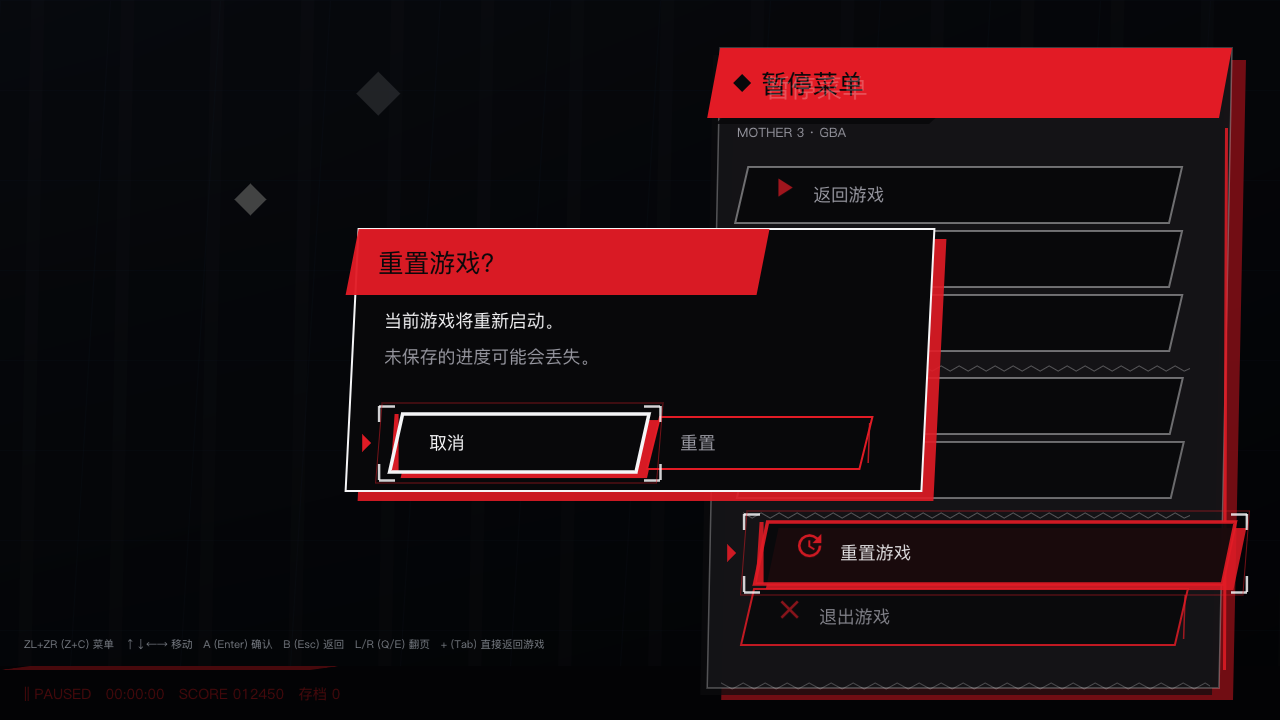
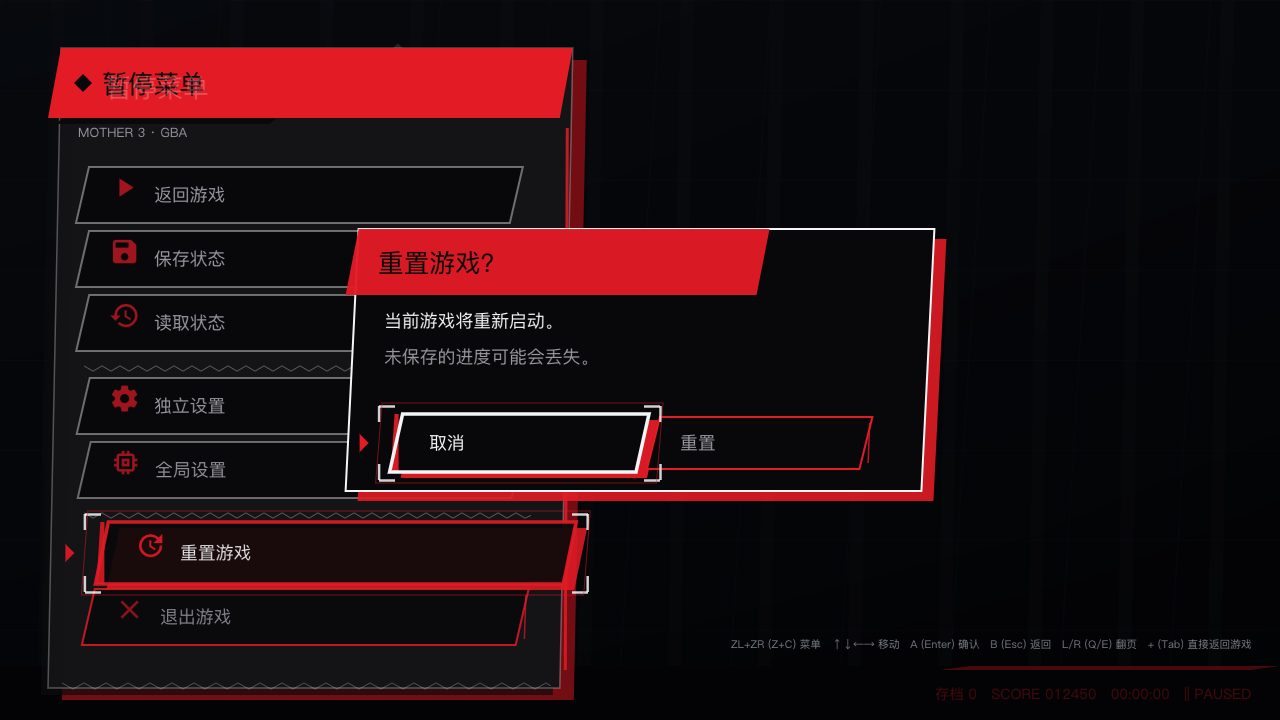
暂停菜单改为从左侧弹出，游戏画面留在右侧
- 面板锚点：panel_x = screen.min.x + menu_left_margin（原为贴右侧）
- 入场/退场方向：从屏幕左侧外滑入/滑出（原为右侧）
- 自适应宽度上限改为保证右侧留 52% 给游戏画面
- demo：游戏画面恢复满屏（真实模拟器也是如此，菜单只是叠在上面），
  玩家方块偏右放置避免被面板盖住；HUD / 按键提示 / 提示消息改为右对齐，
  否则菜单打开时会压在面板上
- 主题字段 menu_right_margin 改名 menu_left_margin

验证：1280x720 / 960x720(4:3) / 1600x720 三种画布下抓帧核对，
面板贴左、滑入动画方向正确、游戏画面与 HUD 在右侧可见、无裁剪；
四种运行方式退出码 0；mac 与 Switch 均编译通过；docs 预览图已刷新。

diff --git a/src/demo/pause/PauseDemo.cpp b/src/demo/pause/PauseDemo.cpp
@@ -47,6 +47,13 @@ void FormatStamp(char* buffer, std::size_t size, int save_index) {
     std::snprintf(buffer, size, "存档 #%d", save_index + 1);
 }
 
+// 游戏画面始终占满整屏（真实模拟器也是如此），菜单只是叠在上面；
+// 这里只把 HUD 条让出来。玩家方块放在偏右，保证菜单打开时仍然可见。
+gamemenu::Rect GameRegion() {
+    const ImVec2 display = ImGui::GetIO().DisplaySize;
+    return MakeRect(0.0f, 0.0f, display.x, display.y - kHudHeight);
+}
+
 } // namespace
 
 // ------------------------------------------------------------------ 场景 ----
@@ -82,20 +89,25 @@ void PauseScene::OnUpdate(UiContext& ui, float dt) {
         game_.time += dt;
         game_.play_seconds += dt;
         game_.ship_angle += dt * 1.4f;
-        // 小球在左侧 62% 区域内弹跳（右上是菜单的视觉区域）
-        const float limit_x = 1180.0f - 30.0f;
-        const float limit_y = 720.0f - kHudHeight - 30.0f;
+        // 小球只在右侧游戏区域内弹跳（左侧是菜单面板）
+        const gamemenu::Rect region = GameRegion();
+        const float limit_min_x = region.min.x + 36.0f;
+        const float limit_max_x = region.max.x - 36.0f;
+        const float limit_min_y = 36.0f;
+        const float limit_max_y = region.max.y - 30.0f;
         for (int i = 0; i < 3; ++i) {
             game_.balls[i].x += game_.ball_vel[i].x * dt;
             game_.balls[i].y += game_.ball_vel[i].y * dt;
-            if (game_.balls[i].x < 30.0f || game_.balls[i].x > limit_x) {
+            if (game_.balls[i].x < limit_min_x || game_.balls[i].x > limit_max_x) {
                 game_.ball_vel[i].x = -game_.ball_vel[i].x;
-                game_.balls[i].x = game_.balls[i].x < 30.0f ? 30.0f : limit_x;
+                game_.balls[i].x =
+                    game_.balls[i].x < limit_min_x ? limit_min_x : limit_max_x;
                 game_.score += 10;
             }
-            if (game_.balls[i].y < 30.0f || game_.balls[i].y > limit_y) {
+            if (game_.balls[i].y < limit_min_y || game_.balls[i].y > limit_max_y) {
                 game_.ball_vel[i].y = -game_.ball_vel[i].y;
-                game_.balls[i].y = game_.balls[i].y < 30.0f ? 30.0f : limit_y;
+                game_.balls[i].y =
+                    game_.balls[i].y < limit_min_y ? limit_min_y : limit_max_y;
                 game_.score += 10;
             }
         }
@@ -151,8 +163,9 @@ void PauseScene::DrawFakeGame(ImDrawList* draw_list, const Rect& screen) {
         draw_list->AddLine(ImVec2(0.0f, y), ImVec2(screen.max.x, y), IM_COL32(0x4F, 0xA3, 0xFF, 0x0E));
     }
 
-    // "玩家"：旋转的红色方框
-    const ImVec2 center(420.0f, 300.0f);
+    // "玩家"：旋转的红色方框（偏右，避免被左侧菜单面板盖住）
+    const gamemenu::Rect region = GameRegion();
+    const ImVec2 center(region.max.x * 0.62f, region.max.y * 0.42f);
     const float size = 46.0f;
     ImVec2 corners[4];
     for (int i = 0; i < 4; ++i) {
@@ -174,7 +187,7 @@ void PauseScene::DrawFakeGame(ImDrawList* draw_list, const Rect& screen) {
 void PauseScene::DrawHud(ImDrawList* draw_list, const Rect& screen) {
     const Rect bar = MakeRect(0.0f, screen.max.y - kHudHeight, screen.Width(), kHudHeight);
     draw_list->AddRectFilled(bar.min, bar.max, IM_COL32(0x0A, 0x0B, 0x0F, 0xF0));
-    AddSkewFilled(draw_list, MakeRect(0.0f, bar.min.y, 340.0f, 4.0f), 30.0f,
+    AddSkewFilled(draw_list, MakeRect(bar.max.x - 340.0f, bar.min.y, 340.0f, 4.0f), 30.0f,
                   IM_COL32(0xE2, 0x1B, 0x25, 0xFF));
 
     char play[16];
@@ -184,14 +197,15 @@ void PauseScene::DrawHud(ImDrawList* draw_list, const Rect& screen) {
 
     char line[128];
     const bool paused = menu_.Visible();
-    std::snprintf(line, sizeof(line), "%s   %s   %s   存档 %d",
-                  paused ? "|| PAUSED" : ">  RUNNING", play, score, save_count_);
+    std::snprintf(line, sizeof(line), "存档 %d   %s   %s   %s", save_count_, score, play,
+                  paused ? "|| PAUSED" : ">  RUNNING");
 
+    // 面板在左侧，HUD 右对齐避免被盖住
     const float size = 20.0f;
-    gamemenu::AddTextLeftVCentered(draw_list, ImVec2(24.0f, bar.Center().y),
-                                   paused ? IM_COL32(0xE2, 0x1B, 0x25, 0xFF)
-                                          : IM_COL32(0xF5, 0xF5, 0xF7, 0xE0),
-                                   size, line);
+    gamemenu::AddTextRight(draw_list, ImVec2(bar.max.x - 28.0f, bar.Center().y - size * 0.5f),
+                           paused ? IM_COL32(0xE2, 0x1B, 0x25, 0xFF)
+                                  : IM_COL32(0xF5, 0xF5, 0xF7, 0xE0),
+                           size, line);
 }
 
 void PauseScene::DrawHotkeyHints(ImDrawList* draw_list, const Rect& screen) {
@@ -199,21 +213,21 @@ void PauseScene::DrawHotkeyHints(ImDrawList* draw_list, const Rect& screen) {
     const char* hint =
         "ZL+ZR (Z+C) 菜单   ↑↓←→ 移动   A (Enter) 确认   B (Esc) 返回   L/R (Q/E) 翻页   "
         "+ (Tab) 直接返回游戏";
-    gamemenu::AddTextLeftVCentered(draw_list, ImVec2(24.0f, y), IM_COL32(0xB0, 0xB6, 0xC0, 0xB0), 15.0f,
-                                   hint);
+    const float right = screen.max.x - 28.0f;
+    gamemenu::AddTextRight(draw_list, ImVec2(right, y - 8.0f), IM_COL32(0xB0, 0xB6, 0xC0, 0xB0),
+                           15.0f, hint);
 
     if (toast_timer_ > 0.0f) {
         const float a = gamemenu::Clamp01(toast_timer_ / 0.7f);
-        gamemenu::AddTextLeftVCentered(draw_list, ImVec2(24.0f, y - 26.0f),
-                                       ColorWithAlpha(IM_COL32(0xE2, 0x1B, 0x25, 0xFF), a), 18.0f,
-                                       toast_);
+        gamemenu::AddTextRight(draw_list, ImVec2(right, y - 34.0f),
+                               ColorWithAlpha(IM_COL32(0xE2, 0x1B, 0x25, 0xFF), a), 18.0f, toast_);
     }
 
     if (loaded_slot_ >= 0) {
         char text[64];
         std::snprintf(text, sizeof(text), "已读取槽位 %d", loaded_slot_ + 1);
-        gamemenu::AddTextLeftVCentered(draw_list, ImVec2(24.0f, y - 48.0f),
-                                       IM_COL32(0xF5, 0xF5, 0xF7, 0xB0), 15.0f, text);
+        gamemenu::AddTextRight(draw_list, ImVec2(right, y - 56.0f),
+                               IM_COL32(0xF5, 0xF5, 0xF7, 0xB0), 15.0f, text);
     }
 }
 

diff --git a/src/gamemenu/GameMenuTheme.h b/src/gamemenu/GameMenuTheme.h
@@ -70,13 +70,13 @@ struct GameMenuTheme {
     float focus_tick_length = 16.0f;   // 焦点框四角 L 形长度
     float sweep_width = 62.0f;         // 扫描高光条宽度
 
-    // 720p 布局：菜单靠右，游戏画面保留在左侧（需求 §15）
+    // 720p 布局：菜单**靠左**弹出，游戏画面保留在右侧
     // 这些是 1280x720 下的基准值；实际画布不同比例时由 ResolveLayout 自适应。
-    float menu_right_margin = 48.0f;
+    float menu_left_margin = 48.0f;
     float menu_width = 520.0f;      // 基准宽（720p 下约 41% 屏宽）
     float menu_width_ratio = 0.41f;  // 画布更宽时按比例取宽
     float menu_min_width = 440.0f;   // 再窄也不小于这个
-    float menu_max_width = 640.0f;   // 再宽也不超过这个（免得远离游戏画面）
+    float menu_max_width = 640.0f;   // 再宽也不超过这个（免得盖住太多游戏画面）
     float menu_top = 48.0f;
     float menu_bottom_margin = 32.0f;
     float menu_max_height = 700.0f;  // 画布很高时面板不跟着无限拉长

diff --git a/src/gamemenu/GameMenuTheme.cpp b/src/gamemenu/GameMenuTheme.cpp
@@ -37,13 +37,14 @@ GameMenuLayout ResolveGameMenuLayout(const GameMenuTheme& theme, const Rect& scr
     if (width > theme.menu_max_width) {
         width = theme.menu_max_width;
     }
-    // 窄画布下别把游戏画面挤没：至少给左侧留 52%
+    // 窄画布下别把游戏画面挤没：右侧至少留 52% 给游戏画面
     const float width_limit = screen.Width() * 0.48f;
     if (width > width_limit) {
         width = width_limit;
     }
     layout.panel_width = width;
-    layout.panel_x = screen.max.x - theme.menu_right_margin - width;
+    // 面板贴左边弹出（游戏画面在右侧）
+    layout.panel_x = screen.min.x + theme.menu_left_margin;
 
     // 高度：可用高度封顶，避免超长画布下面板被拉成一条。
     const float available = screen.Height() - theme.menu_top - theme.menu_bottom_margin;

diff --git a/src/gamemenu/GameMenuView.cpp b/src/gamemenu/GameMenuView.cpp
@@ -240,11 +240,11 @@ void GameMenuHost::Draw(ImDrawList* draw_list, const Rect& screen) {
         views_.back()->DrawScreenOverlay(ctx_, draw_list, screen);
     }
 
-    // ---- 面板几何：位置/尺寸都来自自适应布局，从屏幕右侧外滑入 ----
+    // ---- 面板几何：位置/尺寸都来自自适应布局，从屏幕**左侧**外滑入 ----
     const float panel_w = ctx_.layout.panel_width;
     const float panel_h = ctx_.layout.panel_height;
     const float offscreen = panel_w + theme_->skew * 2.0f + 90.0f;
-    const float panel_x = ctx_.layout.panel_x + (1.0f - slide) * offscreen;
+    const float panel_x = ctx_.layout.panel_x - (1.0f - slide) * offscreen;
 
     const Rect panel = MakeRect(panel_x, ctx_.layout.panel_y, panel_w, panel_h);
 
